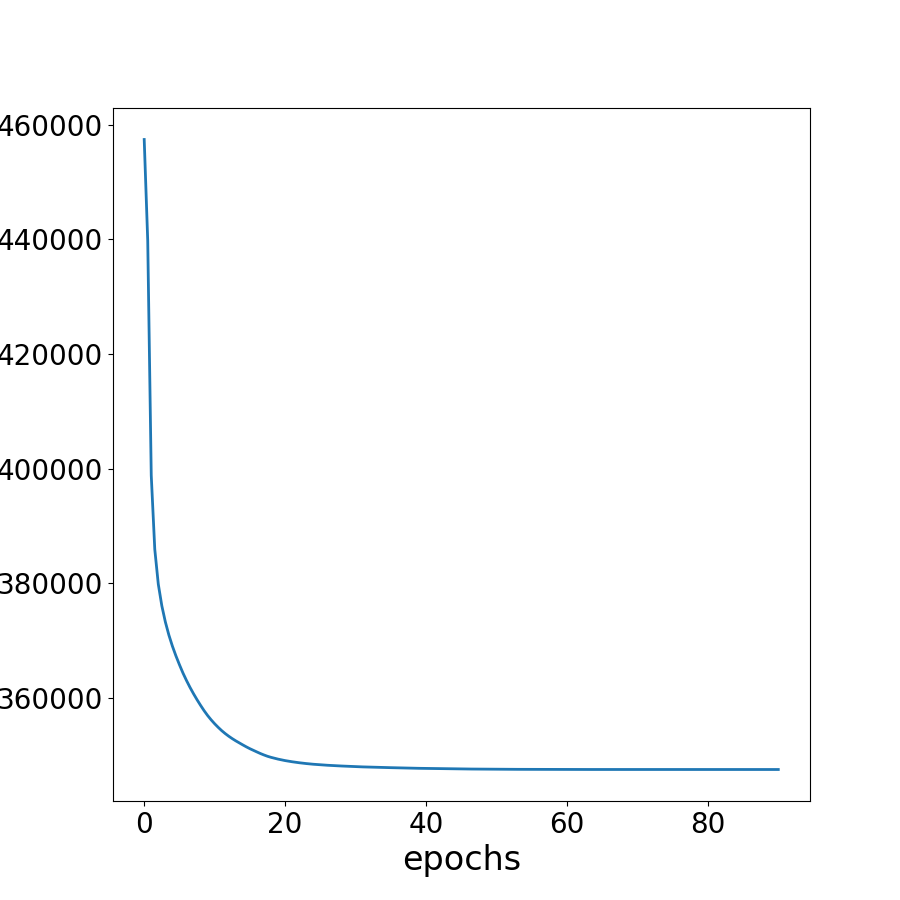
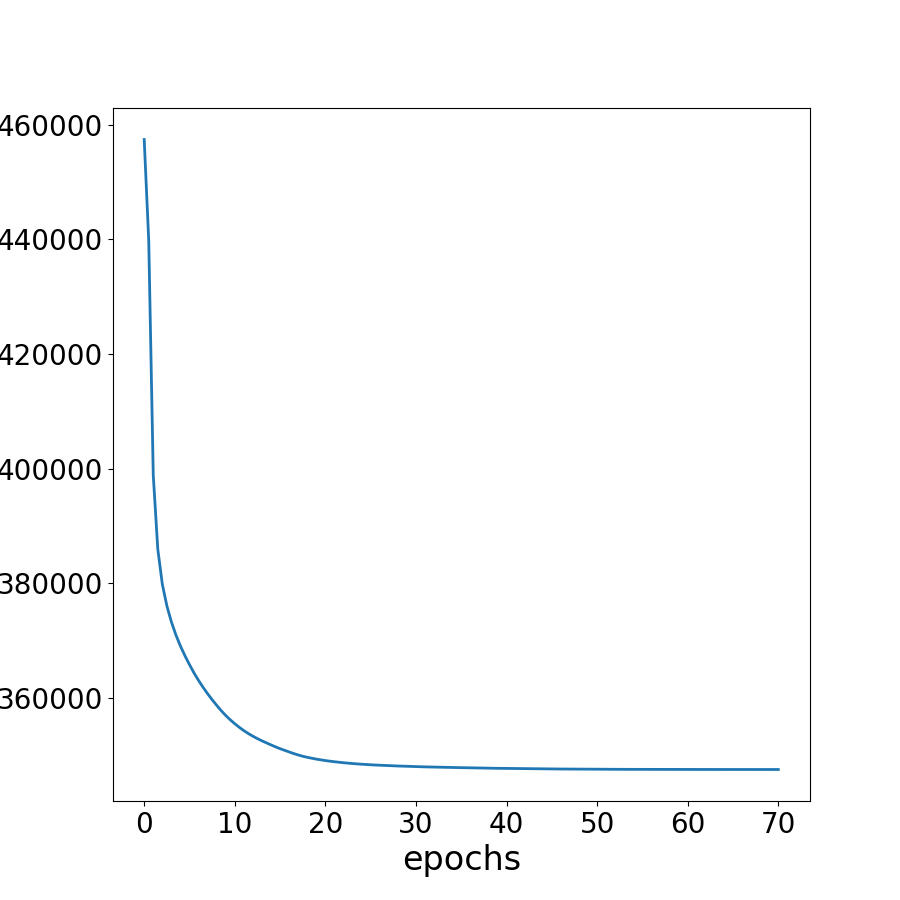
added bs recon progress gif

diff --git a/scripts/visualize_dft_bands.py b/scripts/visualize_dft_bands.py
@@ -11,65 +11,65 @@ from mpes import fprocessing as fp, analysis as aly
 from scipy import io as sio
 from fuller.utils import loadHDF
 
-# Load preprocessed photoemission data
-bcsm = np.load('../data/processed/hslines/WSe2_vcut.npy')
-Evals = fp.readBinnedhdf5('../data/pes/3_smooth.h5')['E']
-ehi, elo = Evals[0], Evals[469]
+def plot_bs(num_bands, n_epoch):
+    """
+    Plots the reconstructed BS constructed after n_epoch iterations
+    """
 
-paths = np.load('../data/processed/hslines/WSe2_kpath.npz')
+    # Load preprocessed photoemission data
+    bcsm = np.load('../data/processed/hslines/WSe2_vcut.npy')
+    Evals = fp.readBinnedhdf5('../data/pes/3_smooth.h5')['E']
+    ehi, elo = Evals[0], Evals[469]
 
-dftbands = sio.loadmat('../data/theory/hslines/initials_DFT_G-M.mat')   
-hse_th_shift = dftbands['HSE'][100:125, 0].max()
+    paths = np.load('../data/processed/hslines/WSe2_kpath.npz')
 
-reconbands = {}
+    reconbands = {}
 
-num_bands = 30 # default
+    init_bands = np.empty((num_bands, 256, 256))
+    recon_bands = np.empty((num_bands, 256, 256))
 
-init_bands = np.empty((num_bands, 256, 256))
-recon_bands = np.empty((num_bands, 256, 256))
+    for i in range(num_bands):
+        # initialization bands
+        with open(f'../results/band_data/init_band_{i}.pkl', 'rb') as f:
+            init_band = pickle.load(f)
+            init_bands[i] = init_band
 
-for i in range(num_bands):
-    # initialization bands
-    with open(f'../results/band_data/init_band_{i}.pkl', 'rb') as f:
-        init_band = pickle.load(f)
-        init_bands[i] = init_band
-
-    # reconstructed bands
-    recon_band = loadHDF(f'../results/band_data/mrf_rec_{i}.h5')
-    kx, ky, Eb = recon_band['kx'], recon_band['ky'], recon_band['Eb']
-    Eb.reshape(256, 256)
-    recon_bands[i] = Eb
-    
-bdi = aly.bandpath_map(np.moveaxis(init_bands, 0, 2), pathr=paths['rowInds'], pathc=paths['colInds'], eaxis=2)
-reconbands["init"] = bdi.T
-bdi = aly.bandpath_map(np.moveaxis(recon_bands, 0, 2), pathr=paths['rowInds'], pathc=paths['colInds'], eaxis=2)
-reconbands["recon"] = bdi.T
-
-
-pos = paths['pathInds']
-pos[-1] -= 1
-
-ff, axa = plt.subplots(1, 1, figsize=(10.5, 8))
-im = axa.imshow(bcsm, cmap='YlOrBr', extent=[0, 185, elo, ehi], aspect=12)
-
-for ib in range(num_bands): # normally set to 14
-    axa.plot(reconbands['init'][:,ib], color='cyan', linestyle='dashed', zorder=1)
-    axa.plot(reconbands['recon'][:,ib], color='lime', zorder=2)
-
-
-axa.tick_params(axis='y', length=8, width=2, labelsize=15)
-axa.tick_params(axis='x', length=0, labelsize=15, pad=8)
-axa.set_ylim([elo, ehi])
-axa.set_xticks(pos)
-axa.set_xticklabels(['$\overline{\Gamma}$', '$\overline{\mathrm{M}}$',
-                       '$\overline{\mathrm{K}}$', '$\overline{\Gamma}$'])
-axa.set_ylabel('Energy (eV)', fontsize=20)
-for p in pos[:-1]:
-        axa.axvline(x=p, c='k', ls='--', lw=2, dashes=[4, 2])
+        # reconstructed bands
+        recon_band = loadHDF(f'../results/band_data/mrf_rec_{i}.h5')
+        kx, ky, Eb = recon_band['kx'], recon_band['ky'], recon_band['Eb']
+        Eb.reshape(256, 256)
+        recon_bands[i] = Eb
         
-axa.set_title('Reconstruction', fontsize=15, x=0.8, y=0.9)
-cax = inset_axes(axa, width="3%", height="30%", bbox_to_anchor=(480, 180, 440, 200))
-cb = plt.colorbar(im, cax=cax, ticks=[])
-cb.ax.set_ylabel('Intensity', fontsize=15, rotation=-90, labelpad=17)
+    bdi = aly.bandpath_map(np.moveaxis(init_bands, 0, 2), pathr=paths['rowInds'], pathc=paths['colInds'], eaxis=2)
+    reconbands["init"] = bdi.T
+    bdi = aly.bandpath_map(np.moveaxis(recon_bands, 0, 2), pathr=paths['rowInds'], pathc=paths['colInds'], eaxis=2)
+    reconbands["recon"] = bdi.T
 
-plt.savefig('../results/reconstruction/multiple_bands.png')
+
+    pos = paths['pathInds']
+    pos[-1] -= 1
+
+    ff, axa = plt.subplots(1, 1, figsize=(10.5, 8))
+    im = axa.imshow(bcsm, cmap='YlOrBr', extent=[0, 185, elo, ehi], aspect=12)
+
+    for ib in range(num_bands): # normally set to 14
+        axa.plot(reconbands['init'][:,ib], color='cyan', linestyle='dashed', zorder=1)
+        axa.plot(reconbands['recon'][:,ib], color='lime', zorder=2)
+
+
+    axa.tick_params(axis='y', length=8, width=2, labelsize=15)
+    axa.tick_params(axis='x', length=0, labelsize=15, pad=8)
+    axa.set_ylim([elo, ehi])
+    axa.set_xticks(pos)
+    axa.set_xticklabels(['$\overline{\Gamma}$', '$\overline{\mathrm{M}}$',
+                        '$\overline{\mathrm{K}}$', '$\overline{\Gamma}$'])
+    axa.set_ylabel('Energy (eV)', fontsize=20)
+    for p in pos[:-1]:
+            axa.axvline(x=p, c='k', ls='--', lw=2, dashes=[4, 2])
+            
+    axa.set_title('Reconstruction', fontsize=15, x=0.8, y=0.9)
+    cax = inset_axes(axa, width="3%", height="30%", bbox_to_anchor=(480, 180, 440, 200))
+    cb = plt.colorbar(im, cax=cax, ticks=[])
+    cb.ax.set_ylabel('Intensity', fontsize=15, rotation=-90, labelpad=17)
+
+    plt.savefig(f'../results/reconstruction/bs_recon_{n_epoch}.png')

diff --git a/scripts/band_reconstruction.py b/scripts/band_reconstruction.py
@@ -2,6 +2,7 @@ import pickle
 import matplotlib.pyplot as plt
 from fuller.mrfRec import MrfRec
 from fuller.utils import loadHDF
+from visualize_dft_bands import plot_bs
 
 # Load preprocessed data
 print("loading preprocessed data...")
@@ -23,14 +24,14 @@ print("initializing E_0 to DFT calculations...")
 path_dft = '../data/theory/WSe2_PBEsol_bands.mat'
 
 
-def reconstruct(band_index):
+def reconstruct(**kwargs):
     """
     Wrapper function for reconstructing band structure given some parameters
     """
 
-      # there is a total of 80 different bands
-    offset = 0.6
-    k_scale = 1.1
+    # there is a total of 80 different bands
+    offset = kwargs['offset']
+    k_scale = kwargs['k_scale']
 
     kx_dft, ky_dft, E_dft = mrf.loadBandsMat(path_dft)
     print("band structure shape:", E_dft.shape)
@@ -44,8 +45,9 @@ def reconstruct(band_index):
 
     # Run optimization to perform reconstruction
     print("training model...")
-    eta = 0.1
-    n_epochs = 90 # loss plot shows -logp converges after n=60
+
+    eta = kwargs['eta']
+    n_epochs = kwargs['n_epochs']
 
     mrf.eta = eta
     mrf.iter_para(n_epochs, updateLogP=True)
@@ -75,9 +77,13 @@ def reconstruct(band_index):
     # think about maybe serializing the mrf for later use
 
 # parameter
-num_bands = 30
+num_bands = 15
+n_epochs = [10, 20, 30, 40, 50, 60, 70, 80, 90, 100]
 
 # call the wrapper function
-for band_index in range(num_bands):
-    print(f"reconstructing the {band_index}th band...")
-    reconstruct(band_index)
+# kwargs: band_index, offset, k_scale, eta, n_epochs
+for epoch in n_epochs:
+  for band_index in range(num_bands):
+      print(f"reconstructing the {band_index}th band, epoch={epoch}...")
+      reconstruct(band_index=band_index, offset=0.6, k_scale=1.1, eta=0.1, n_epochs=epoch)
+      plot_bs(num_bands, epoch)

diff --git a/scripts/bs_progress.py b/scripts/bs_progress.py
@@ -1,0 +1,9 @@
+import imageio
+
+images = []
+
+# append
+for i in range(10, 80, 10):
+    images.append(imageio.imread(f"../results/reconstruction/bs_recon_{i}.png"))
+
+imageio.mimsave(f'../results/reconstruction/bs_recon_{10}_to_{70}.gif', images)
